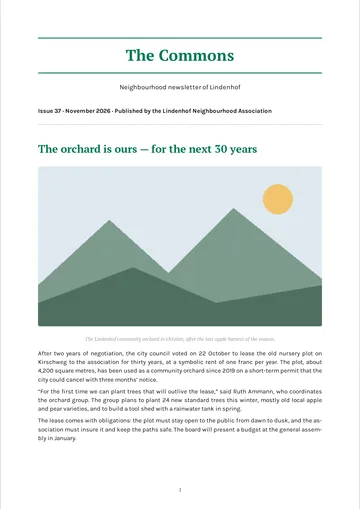
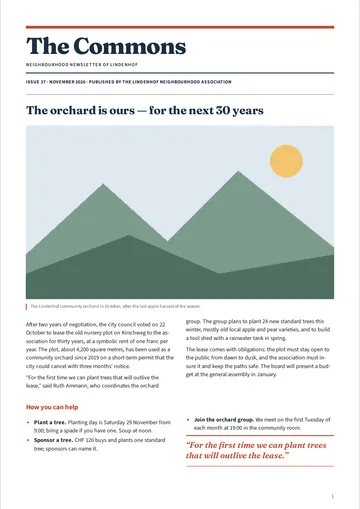
feat: replace the newsletter preset in place with the new design
Owner decision: no separate bulletin id. The newsletter preset takes the
two-column design (NEWSLETTER_TEMPLATE_CSS), newsletter-patch.json holds
title-block data only, thumbnail re-rendered, descriptions updated.

diff --git a/shared/utils/themePresets.ts b/shared/utils/themePresets.ts
@@ -350,13 +350,13 @@ const THESIS_TEMPLATE_CSS = `/* Thesis template. Genre reference: LaTeX report.c
 `
 
 /**
- * BULLETIN_TEMPLATE_CSS — the newsletter look beyond theme fields: a
+ * NEWSLETTER_TEMPLATE_CSS — the newsletter look beyond theme fields: a
  * masthead (title block + the issue line under it), article headlines and
  * captioned photos across both columns, a pull quote, a diary-style events
  * table and friendlier callouts. Ordinary custom CSS
  * (tests/unit/themePresetCss.test.ts).
  */
-const BULLETIN_TEMPLATE_CSS = `/* Newsletter template: two columns of text under full-width headlines and photos. */
+const NEWSLETTER_TEMPLATE_CSS = `/* Newsletter template: two columns of text under full-width headlines and photos. */
 /* Balance the columns of every run of text, also the last one on a page (the engine's column-fill: auto fills the left column first, which left a short article's right column empty); a run that continues on the next page still fills its page. */
 .paged-doc { column-fill: balance; }
 /* Masthead: an accent bar over the publication name, set large and tight; subtitle and date as a small sans line under a firm rule. */
@@ -887,49 +887,15 @@ export const THEME_PRESETS: ThemePreset[] = [
     }
   },
 
-  // — Newsletter: 2-column layout, smaller body for density, sans body
-  // (Karla) under serif headings (PT Serif), green accent, brand-color
-  // table headers + zebra. Showcases the multi-column flow.
-  {
-    id: 'newsletter',
-    category: 'writing',
-    theme: {
-      page: { size: 'A4', orientation: 'portrait', margin: 22 },
-      meta: { font: 'PT Serif' },
-      body: { font: 'Karla', size: 10, lineHeight: 1.45, textAlign: 'justify', color: '#18181b', background: '#FFFFFF', dropCap: false, firstLineIndent: false, paragraphSpacing: 0.5, hyphenate: true },
-      headings: { font: 'PT Serif', scale: 1.22, weight: 700, underline: false, color: '#047857', letterSpacing: 0, lineHeight: 1.2, spacingScale: 1, numbering: 'none', levels: {} },
-      color: { brand: '#047857', secondary: '#a1a1aa' },
-      brand: { logoUrl: '', logoHeight: 48 },
-      layout: { columns: 1, columnGap: 8 },
-      header: { left: '{title}', center: '', right: '{date}', imageUrl: '', imagePosition: 'left', imageHeight: 12, rule: false },
-      footer: { left: '', center: '{page}', right: '', imageUrl: '', imagePosition: 'center', imageHeight: 10, rule: false },
-      code: { theme: 'github-light', fontSize: 8, font: 'JetBrains Mono', background: 'auto', frame: 'none', wrap: true, lineNumbers: false },
-      tables: { headerBackground: 'brand', headerTextColor: 'auto', borders: 'horizontal', zebra: true, cellPadding: 4, captionPosition: 'above', captionLabel: false },
-      blocks: { imageRadius: 4, imageMaxWidth: 100, blockquoteStyle: 'background', hrStyle: 'dashed', hrThickness: 1, figureLabel: false, referenceStyle: 'plain' },
-      mermaid: { theme: 'document' },
-      // Newsletter — bright, friendly admonition palette to match the
-      // weekly-digest feel. Slightly more saturated than the reports.
-      alerts: {
-        note: '#0284c7',
-        tip: '#16a34a',
-        important: '#9333ea',
-        warning: '#d97706',
-        caution: '#dc2626'
-      },
-      toc: { maxDepth: 3, showTitle: false, showPageNumbers: false, leaderStyle: 'none' },
-      cover: { enabled: false, layout: 'classic', showTitle: true, showSubtitle: false, subtitle: '', showDate: false, showAuthors: false, authors: [], affiliations: [], rules: false, smallCaps: false, showLogo: false, align: 'center', titleSize: 2.4, subtitleSize: 1.15 }
-    }
-  },
-
-  // — Bulletin: a modern community / company newsletter for print and
+  // — Newsletter: a modern community / company newsletter for print and
   // PDF. A4 with narrow margins, two columns of Source Sans 3 at
   // 9.5/14 under full-width Fraunces headlines (strong but friendly),
   // captioned photos across both columns, a masthead built from the
   // title block, one warm accent (terracotta) for bars, kickers, the
   // pull quote and links on dark-ink text. Template CSS:
-  // BULLETIN_TEMPLATE_CSS. Fixture: tests/fixtures/theme-shots/newsletter.md.
+  // NEWSLETTER_TEMPLATE_CSS. Fixture: tests/fixtures/theme-shots/newsletter.md.
   {
-    id: 'bulletin',
+    id: 'newsletter',
     category: 'writing',
     theme: {
       page: { size: 'A4', orientation: 'portrait', margin: 15 },
@@ -967,7 +933,7 @@ export const THEME_PRESETS: ThemePreset[] = [
       },
       toc: { maxDepth: 2, showTitle: false, showPageNumbers: false, leaderStyle: 'none' },
       cover: { enabled: true, layout: 'title-block', showTitle: true, showSubtitle: true, subtitle: '', showDate: true, showAuthors: false, authors: [], affiliations: [], rules: false, smallCaps: false, titleWeight: 800, showLogo: false, align: 'left', titleSize: 4, subtitleSize: 1 },
-      customCss: BULLETIN_TEMPLATE_CSS
+      customCss: NEWSLETTER_TEMPLATE_CSS
     }
   },
 

diff --git a/tests/integration/endpoints/docPdf.test.ts b/tests/integration/endpoints/docPdf.test.ts
@@ -605,18 +605,18 @@ describe('GET /api/docs/:docId/pdf — real renderer', () => {
       await wipeRendersFor(doc.docId)
     }, 90_000)
 
-    // The bulletin (newsletter) preset end to end: two balanced columns with
+    // The newsletter preset end to end: two balanced columns with
     // full-width headlines, photos and the events table (template CSS
     // `column-span: all`), A4, Fraunces + Source Sans 3 embedded as real fonts.
-    it('renders the newsletter fixture in the bulletin preset on 2–4 A4 pages', async () => {
+    it('renders the newsletter fixture in the newsletter preset on 2–4 A4 pages', async () => {
       const owner = await createUser()
       const doc = await createDoc({ ownerId: owner.id, accessMode: 'open-edit' })
-      const bulletin = THEME_PRESETS.find(p => p.id === 'bulletin')?.theme
-      if (!bulletin) throw new Error('bulletin preset missing')
-      expect(bulletin.customCss).toBeTruthy()
-      const patch: unknown = JSON.parse(readFileSync(resolve(fileURLToPath(new URL('../../fixtures/theme-shots/bulletin-patch.json', import.meta.url))), 'utf8'))
+      const newsletter = THEME_PRESETS.find(p => p.id === 'newsletter')?.theme
+      if (!newsletter) throw new Error('newsletter preset missing')
+      expect(newsletter.customCss).toBeTruthy()
+      const patch: unknown = JSON.parse(readFileSync(resolve(fileURLToPath(new URL('../../fixtures/theme-shots/newsletter-patch.json', import.meta.url))), 'utf8'))
       const cover = typeof patch === 'object' && patch !== null && 'cover' in patch && typeof patch.cover === 'object' && patch.cover !== null ? patch.cover : {}
-      const theme = { ...bulletin, cover: { ...bulletin.cover, ...cover } }
+      const theme = { ...newsletter, cover: { ...newsletter.cover, ...cover } }
       await testDb().query('UPDATE documents SET theme = $1 WHERE doc_id = $2', [JSON.stringify(theme), doc.docId])
       const fixture = readFileSync(resolve(fileURLToPath(new URL('../../fixtures/theme-shots/newsletter.md', import.meta.url))), 'utf8')
       const snapId = await insertYjsRow(doc.docId, fixture)

diff --git a/tests/unit/themeVariables.test.ts b/tests/unit/themeVariables.test.ts
@@ -44,11 +44,11 @@ describe('absent fields = the old look', () => {
     expect('titleWeight' in filled.cover).toBe(false)
   })
 
-  // Templates built on the new fields (arXiv, business report, tech docs, IEEE conference, thesis, design doc, bulletin) are exempt;
+  // Templates built on the new fields (arXiv, business report, tech docs, IEEE conference, thesis, design doc, newsletter) are exempt;
   // the presets that predate them must render exactly as before.
   test('no preset other than the templates changes its CSS through the new fields', () => {
     for (const p of THEME_PRESETS) {
-      if (p.id === 'arxiv' || p.id === 'business-report' || p.id === 'tech-docs' || p.id === 'ieee-conference' || p.id === 'thesis' || p.id === 'design-doc' || p.id === 'bulletin') continue
+      if (p.id === 'arxiv' || p.id === 'business-report' || p.id === 'tech-docs' || p.id === 'ieee-conference' || p.id === 'thesis' || p.id === 'design-doc' || p.id === 'newsletter') continue
       const css = themeToCss(p.theme, runtime)
       const stripped = clone(p.theme)
       delete stripped.headings.levels

diff --git a/tests/unit/themeToCss.test.ts b/tests/unit/themeToCss.test.ts
@@ -467,7 +467,7 @@ describe('themeToCss — schema completeness invariants', () => {
   })
   test('the built-in presets exist in picker order', () => {
     expect(THEME_PRESETS.map(p => p.id)).toEqual([
-      'markoto', 'modern', 'academic', 'arxiv', 'ieee-conference', 'thesis', 'tech-docs', 'design-doc', 'business-report', 'novel', 'newsletter', 'bulletin', 'resume'
+      'markoto', 'modern', 'academic', 'arxiv', 'ieee-conference', 'thesis', 'tech-docs', 'design-doc', 'business-report', 'novel', 'newsletter', 'resume'
     ])
   })
   test('markoto is first preset (becomes default in new-doc dialog)', () => {

diff --git a/tests/fixtures/theme-shots/README.md b/tests/fixtures/theme-shots/README.md
@@ -39,7 +39,7 @@ genre needs it, the cover layout — never the template's design.
 | `one-pager.md` | One-pager (must fit 1 page) | dense h2 sections; bold lead; small table; important callout; lists; run-in facts paragraph | Fieldnote — field-service reports in one tap | `one-pager-patch.json` (title-block, no logo) |
 | `essay.md` | Academic essay (APA-like) | author/course/instructor via title block; in-text citations; long block quotation; footnote; reference list for hanging indents | Who Owns the Shoreline? Public Access and Private Property on Alpine Lakes | `essay-patch.json` (title-block) |
 | `manuscript.md` | Fiction manuscript | epigraph; three h1 chapters; long runs of dialogue; scene breaks (`---`, `* * *`); italic thoughts; quoted letter | The Salt Ledger | `manuscript-patch.json` |
-| `newsletter.md` | Newsletter | masthead line; short articles; raster images (full width, sized, figure captions); pull quote; events table; links; note callout | The Commons | `newsletter-patch.json` (title-block masthead); `bulletin-patch.json` for the Bulletin preset (subtitle only, date off — the issue line carries it) |
+| `newsletter.md` | Newsletter | masthead line; short articles; raster images (full width, sized, figure captions); pull quote; events table; links; note callout | The Commons | `newsletter-patch.json` (subtitle; date off — the issue line carries it) |
 | `structure.md` | engine (any) | numbering from h2, Pandoc table captions above/below, number + unit and SEV-1 in narrow cells, captioned figure, References as a numbered list | Quarterly review | `structure-patch.json` (numbering, caption + figure labels, [1] references, `{section}` header — engine options, not a template's design) |
 
 Images are tiny palette PNG `data:` URIs: Markdown only accepts raster

diff --git a/content/docs/themes/pick-a-theme.md b/content/docs/themes/pick-a-theme.md
@@ -62,9 +62,7 @@ The built-in presets cover most use cases:
   quotes and a quiet footer rule.
 - **Novel** — Crimson Text serif, deep violet accent, generous
   line-height, drop cap on page 1.
-- **Newsletter** — two-column Karla over PT Serif, green accent,
-  weekly-digest density.
-- **Bulletin** — a newsletter to print or send as a PDF: a bold
+- **Newsletter** — a newsletter to print or send as a PDF: a bold
   masthead with the issue line, headlines and captioned photos across
   the page over two columns of text, pull quotes, a terracotta accent.
 - **Resume** — one dense page: Inter at 10 pt, small headings with
